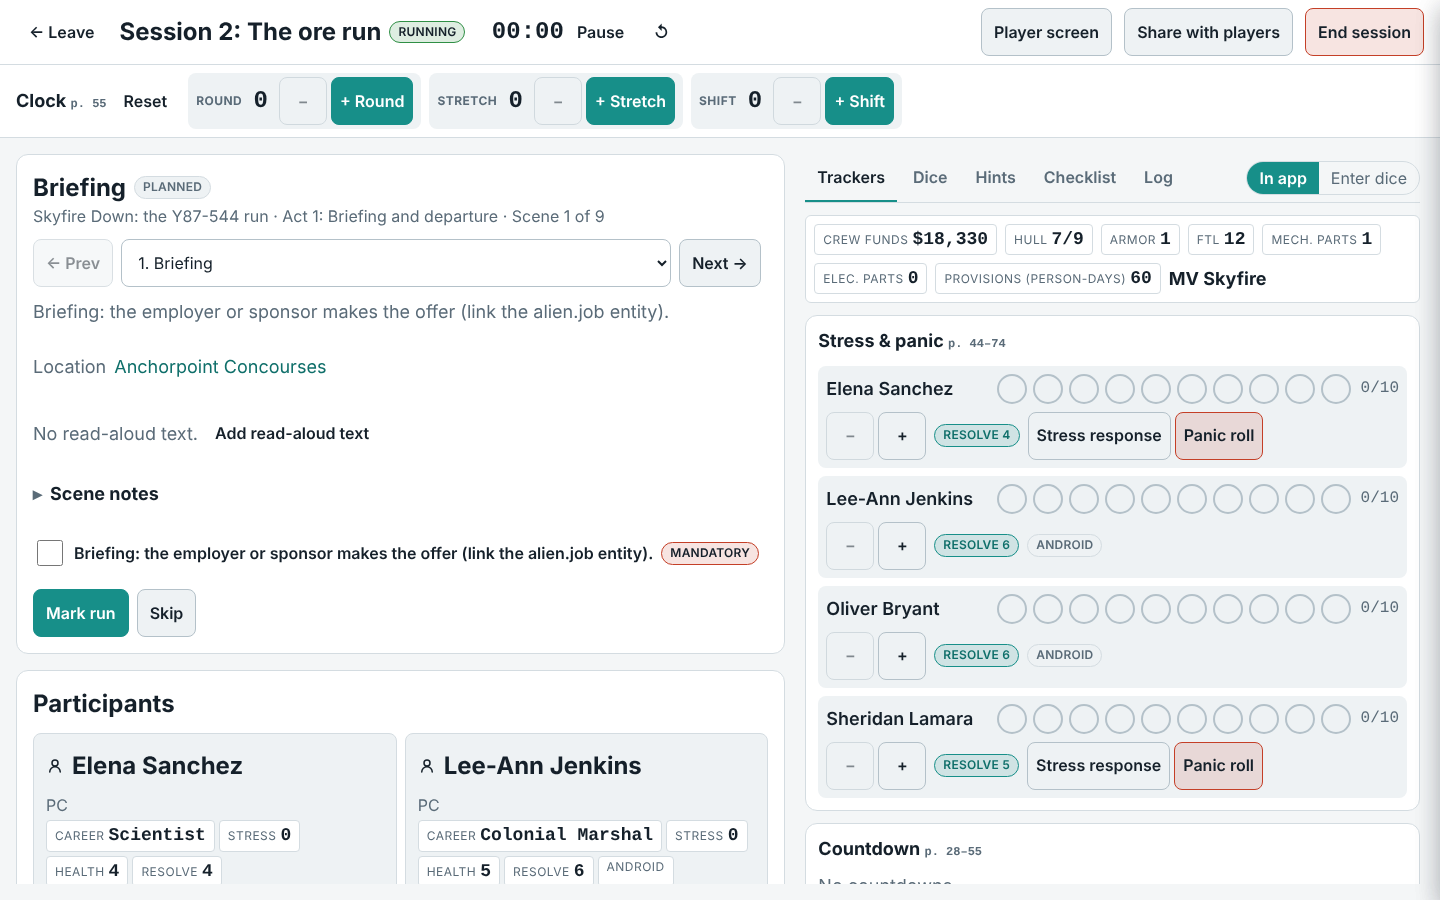
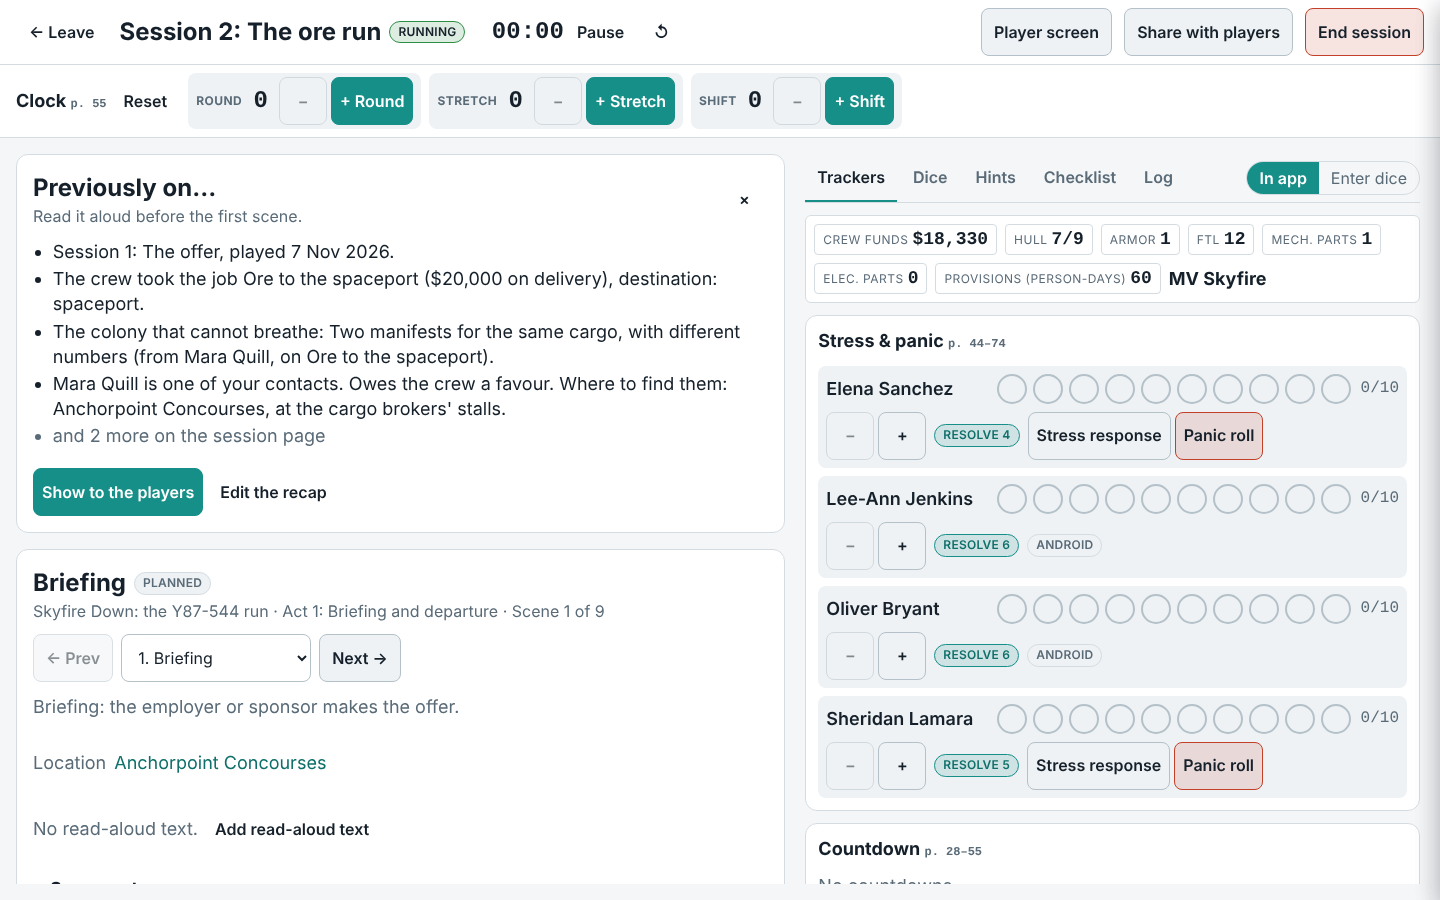
Job card: no 'Link the...' instructions in scene purposes; count a site map's zones
Run this job links the job, the site and its map itself, so the template's
reminders read as noise at the table. A generated site map keeps its zones in
its layout, so the scene editor showed it as 0 zones.

Claude-Session: https://claude.ai/code/session_01PjoAoT19ZxbEizz2Vq94tE

diff --git a/packages/module-alien/src/templates/jobCard.ts b/packages/module-alien/src/templates/jobCard.ts
@@ -19,7 +19,7 @@ export const jobCardScaffold: TemplateAdventure = {
       goal: "Take the job, haggle, load up and leave.",
       pacing: "Short. One scene with the employer, one for supplies and goodbyes.",
       scenes: [
-        { id: "briefing", title: "Briefing", purpose: "Briefing: the employer or sponsor makes the offer. Link the job.", mandatory: true },
+        { id: "briefing", title: "Briefing", purpose: "Briefing: the employer or sponsor makes the offer.", mandatory: true },
         { id: "preparation", title: "Preparation", purpose: "Preparation: shopping, supply checks, a word with a rival.", mandatory: false },
       ],
     },
@@ -39,7 +39,7 @@ export const jobCardScaffold: TemplateAdventure = {
       goal: "Do the job. The complications land here.",
       pacing: "One scene per complication; stealth mode if anything is hunting.",
       scenes: [
-        { id: "arrival", title: "Arrival", purpose: "Arrival: the crew reaches the site. Link the site and its map.", mandatory: true },
+        { id: "arrival", title: "Arrival", purpose: "Arrival: the crew reaches the site.", mandatory: true },
         { id: "complication", title: "Complication", purpose: "Complication: the first complication lands.", mandatory: true },
         { id: "twist", title: "The twist", purpose: "The twist: the second complication or the plot twist.", mandatory: false },
       ],

diff --git a/apps/web/src/features/adventures/SceneEditor.tsx b/apps/web/src/features/adventures/SceneEditor.tsx
@@ -84,9 +84,15 @@ export function SceneEditor({ scene }: { scene: Scene }) {
                   <Link to="/c/$campaignId/maps/$mapId" params={{ campaignId: ctx.campaignId, mapId: map.id }} className="cf-btn cf-btn--sm" data-testid="open-scene-map">
                     Open {map.name}
                   </Link>
-                  <Badge>
-                    {map.zones.length} zone{map.zones.length === 1 ? "" : "s"}
-                  </Badge>
+                  {(() => {
+                    // a generated site map keeps its zones in its layout; an imported image has drawn ones
+                    const n = map.layout ? map.layout.zones.length : map.zones.length;
+                    return (
+                      <Badge>
+                        {n} zone{n === 1 ? "" : "s"}
+                      </Badge>
+                    );
+                  })()}
                 </>
               ) : (
                 <span className="cf-muted">None</span>
